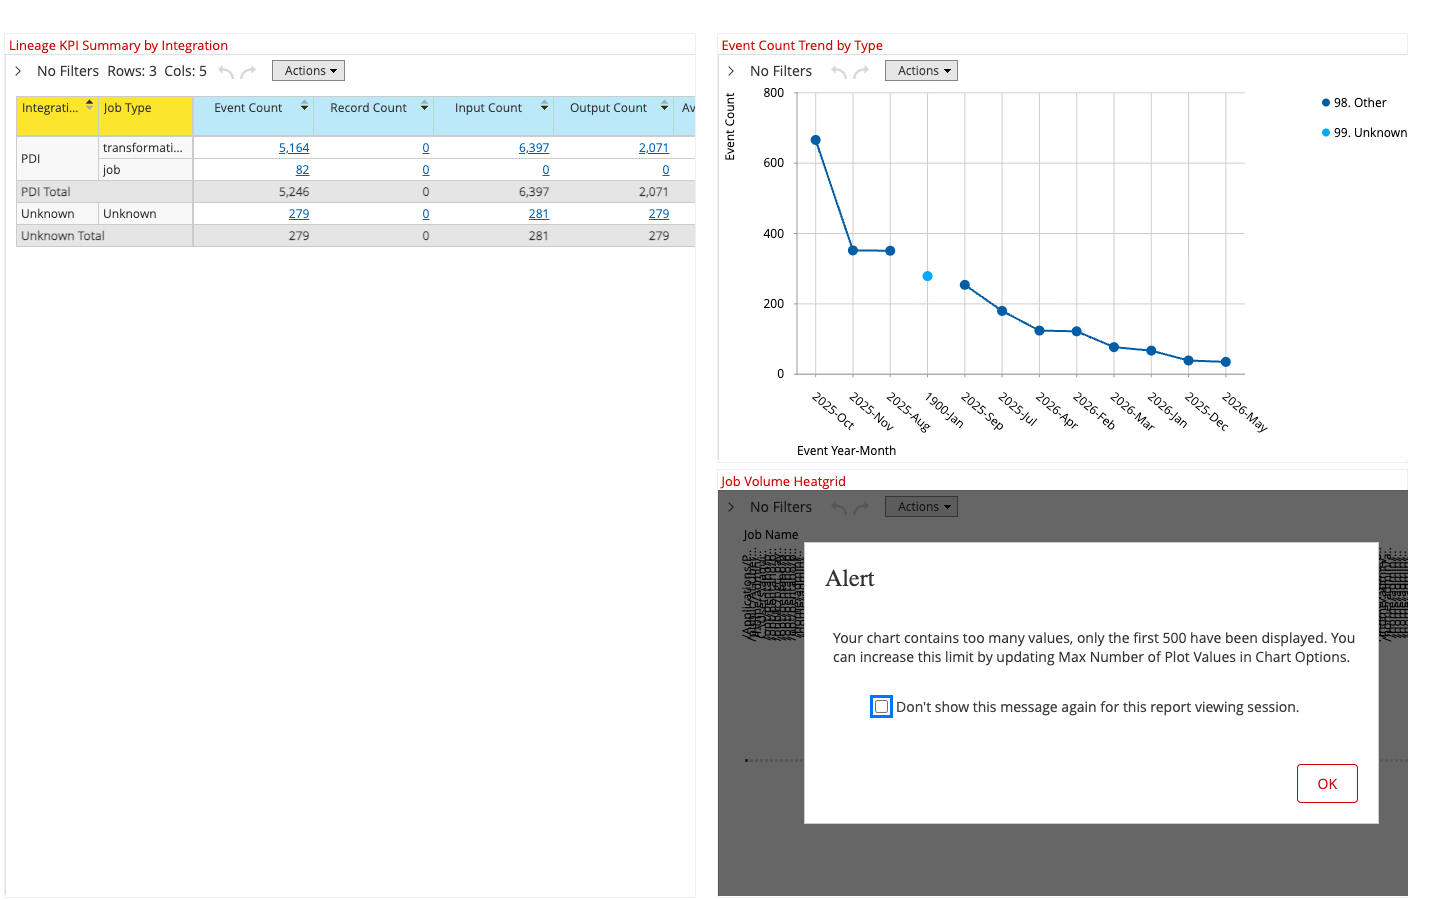
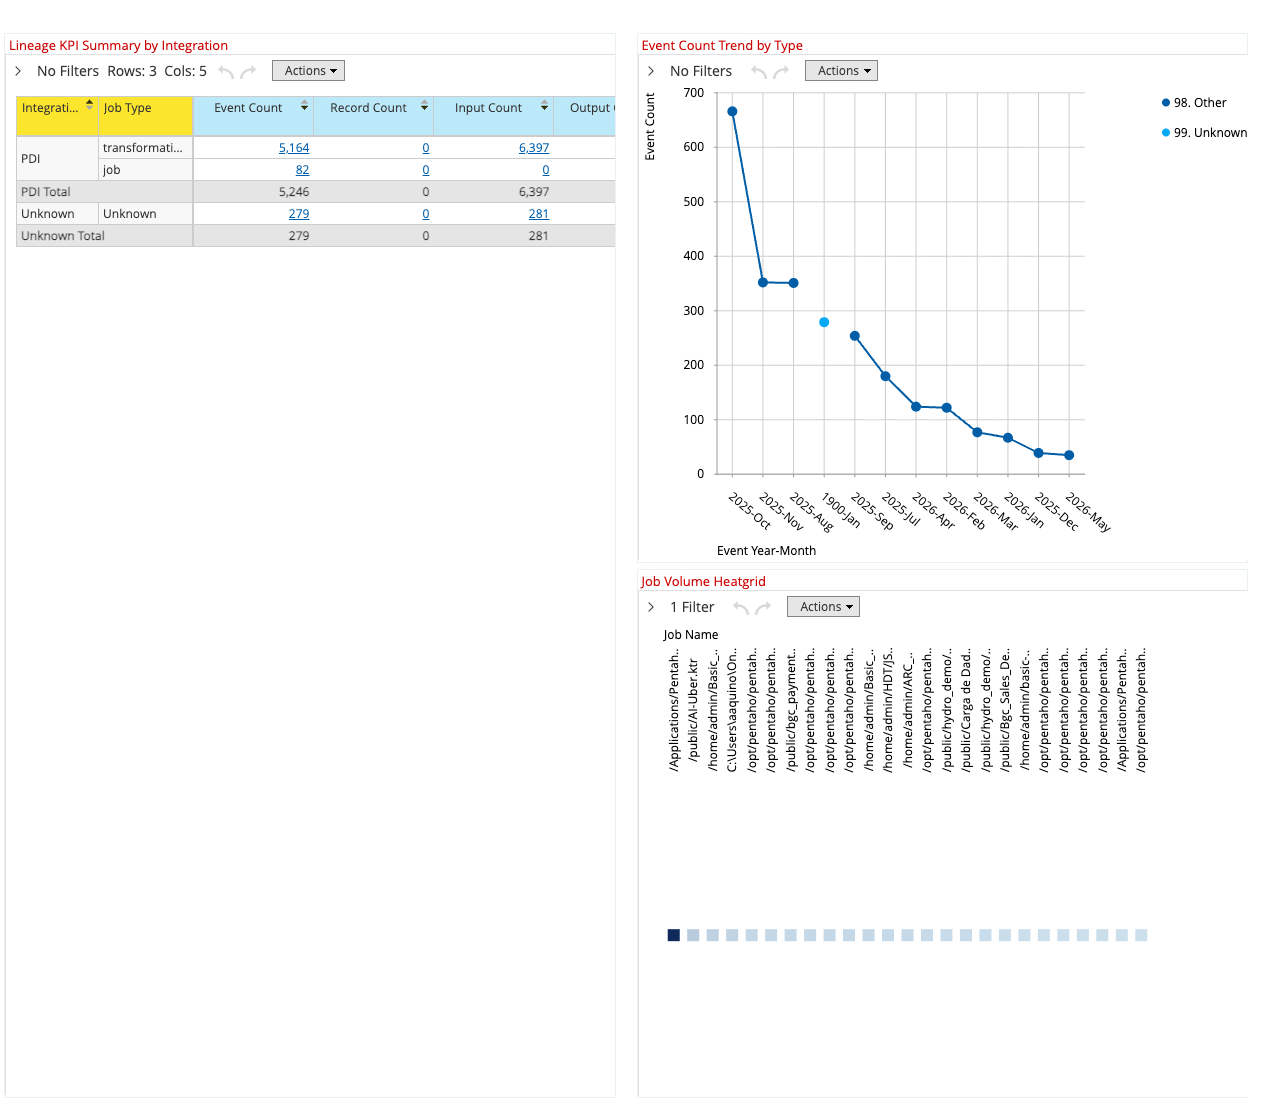
fix: add top-25 filter to lineage job reports; update README and screenshots
- 19-lineage-top-jobs.xanalyzer: add topBottom filter (Top 25 by Event Count) to eliminate
  "too many values" alert on D81 Top Jobs chart
- 19-lineage-job-heatgrid.xanalyzer: same fix for D83 Job Volume Heatgrid; set maxValues=25
- README: full technical reference update for lineage layer (27 MVs, 10+1 cubes, 16 dims,
  10 facts, lineage ETL data flow, VirtualCube ordering constraint documented)
- D81 and D83 screenshots refreshed — no alert dialogs, "1 Filter" badge visible

diff --git a/pdc-analysis/README.md b/pdc-analysis/README.md
@@ -165,7 +165,7 @@ Temperature mix and trend over time, by source.
 ### Data Lineage (D8x)
 
 #### D81 — Lineage Activity
-Event type mix (Read / Write / Other) and event & record count trend over time; top jobs by event volume. Answers: *what types of lineage activity are happening and when?*
+Event type mix (Read / Write / Other) and event & record count trend over time; top 25 jobs by event volume. Answers: *what types of lineage activity are happening and when?*
 
 ![D81 Lineage Activity](docs/screenshots/D81-Lineage-Activity.png)
 
@@ -175,7 +175,7 @@ Source → Destination connection matrix (scatter), top source namespaces and to
 ![D82 Data Flow Map](docs/screenshots/D82-Data-Flow-Map.png)
 
 #### D83 — Lineage Operations Summary
-KPI pivot by integration + job type (event count, record count, input / output counts), event count trend by type, and job volume heatgrid. Answers: *which jobs are the heaviest movers and what is the overall operational picture?*
+KPI pivot by integration + job type (event count, record count, input / output counts), event count trend by type, and top-25 job volume heatgrid. Answers: *which jobs are the heaviest movers and what is the overall operational picture?*
 
 ![D83 Lineage Operations Summary](docs/screenshots/D83-Lineage-Operations-Summary.png)
 